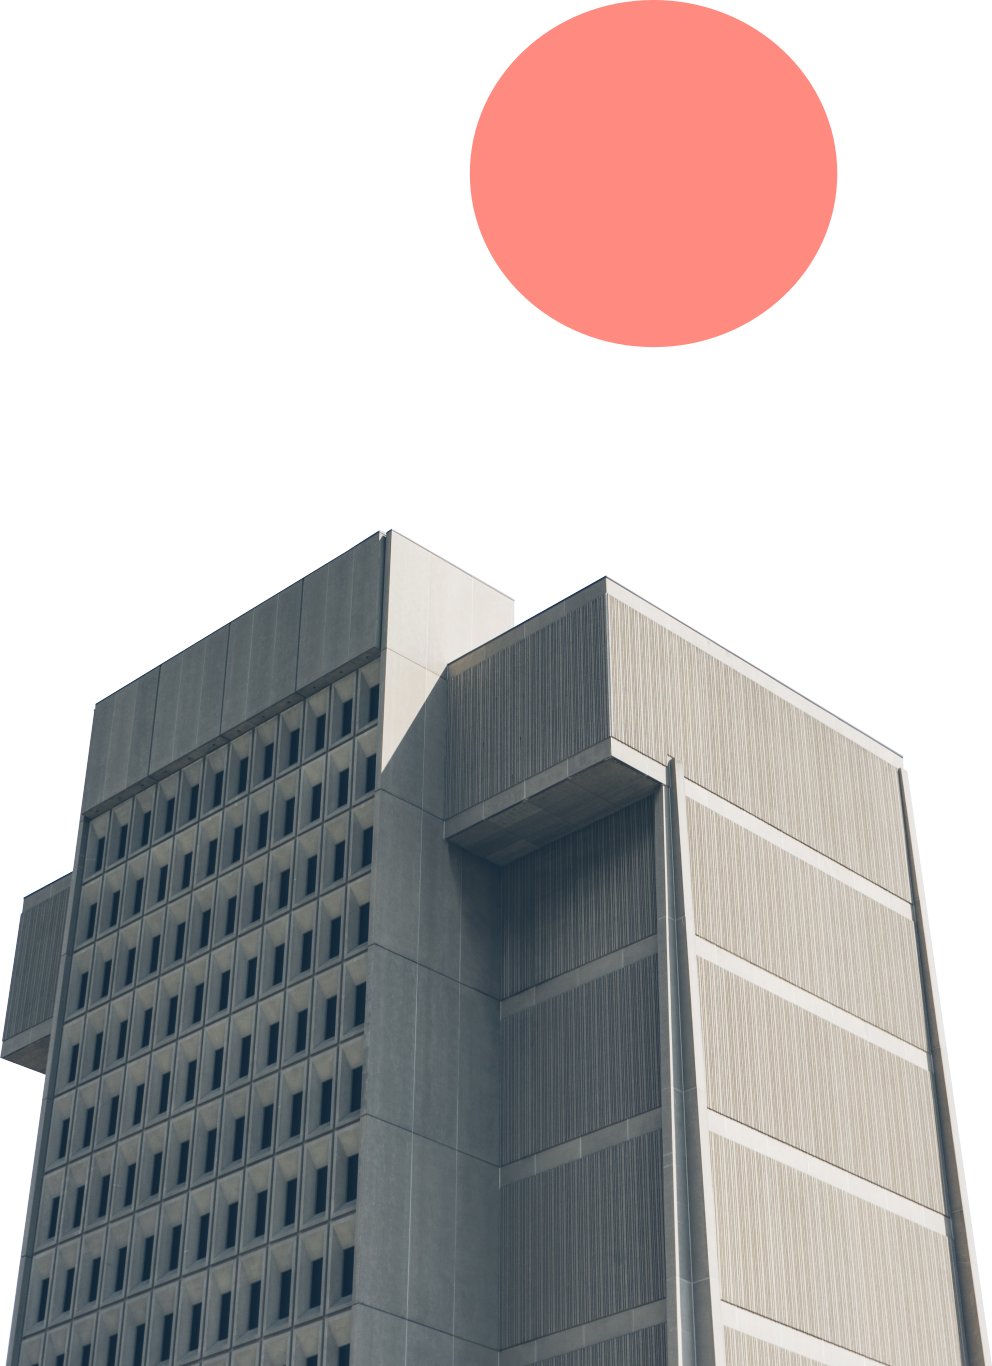
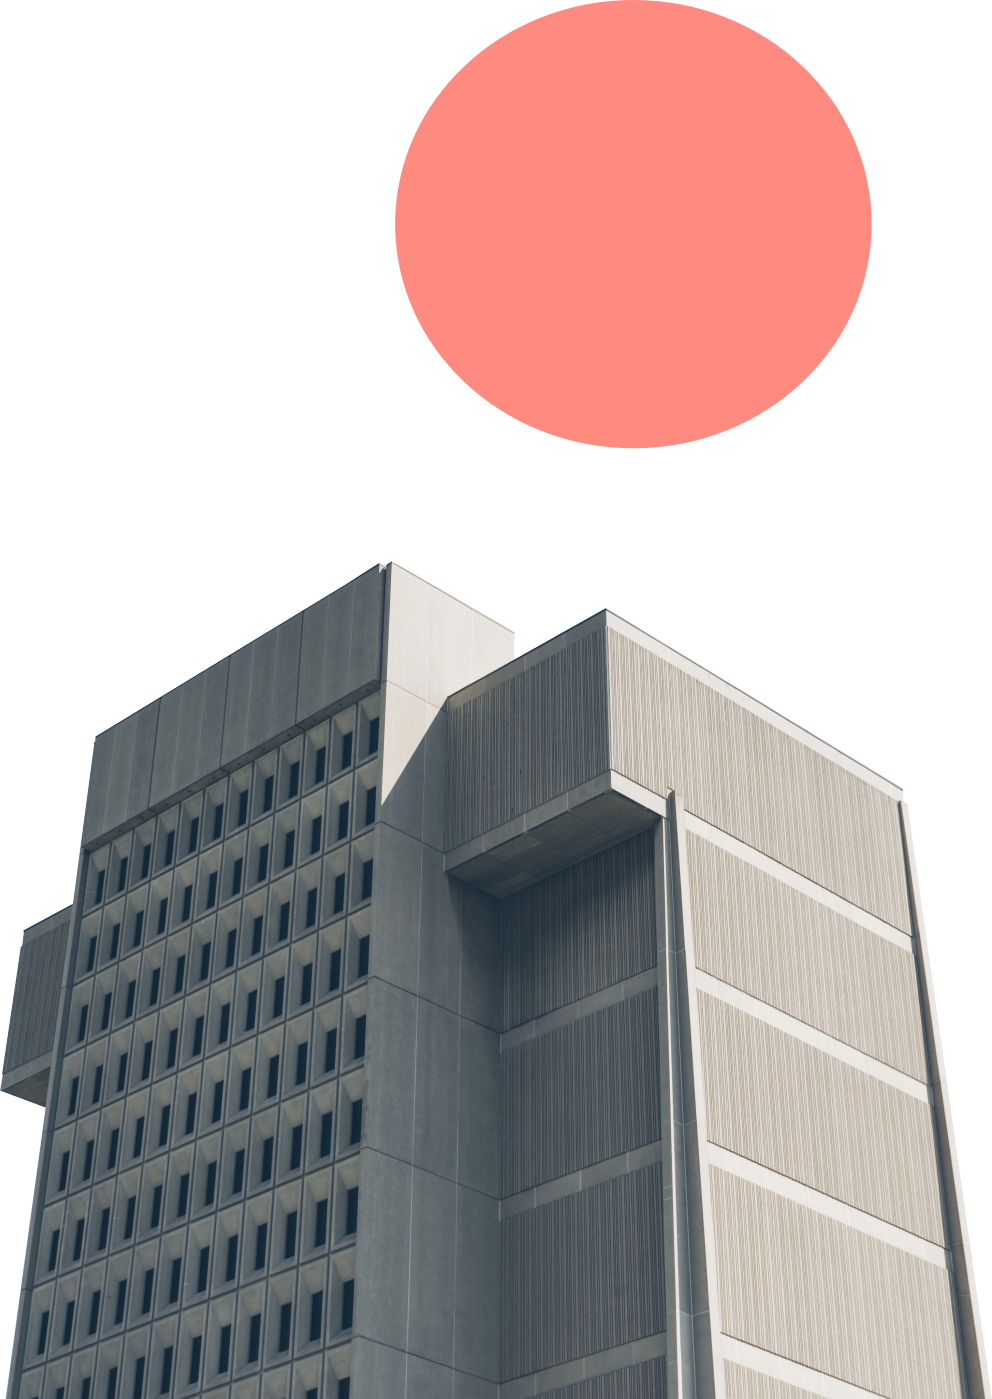
Wrapped up greet funding scene and art work :D

diff --git a/src/scenes/Funding/GreetFunding.jsx b/src/scenes/Funding/GreetFunding.jsx
@@ -2,12 +2,11 @@ import React, { Component } from "react";
 import { css } from "react-emotion";
 import buildingLarge from "../../assets/buildingLarge.png";
 import buildingSmall from "../../assets/buildingSmall.png";
-import Heading from "../../components/Heading";
-import Card from "../../components/Card";
 import Button from "../../components/Button";
-import { marginBottom2 } from "../../styles/utilities";
-import Container from "../../components/Container";
+import Card from "../../components/Card";
+import Heading from "../../components/Heading";
 import spacing from "../../styles/spacing";
+import { marginBottom2 } from "../../styles/utilities";
 
 class GreetFunding extends Component {
   state = {};
@@ -16,18 +15,22 @@ class GreetFunding extends Component {
     return (
       <Card
         className={css`
-          max-width: 700px;
-          height: 289px;
+          max-width: 40em;
+          height: 19.2em;
           margin: 0 auto;
           margin-top: ${spacing.space4};
         `}
         bgColor="#FCE7DD"
         disableBoxShadow
       >
-        <div>
+        <div
+          className={css`
+            margin-top: ${spacing.space2};
+          `}
+        >
           <Heading
             className={css`
-              max-width: 350px;
+              max-width: 10em;
               line-height: 1.3;
               ${marginBottom2};
             `}
@@ -42,8 +45,8 @@ class GreetFunding extends Component {
             position: absolute;
             right: 0;
             bottom: 0;
-            max-width: 235px;
-            right: 39px;
+            max-width: 15.2em;
+            right: 2.4em;
           `}
         >
           <picture>
@@ -57,7 +60,7 @@ class GreetFunding extends Component {
               type="image/jpeg"
               media="(min-width: 50px)"
             />
-            <img src={buildingLarge} alt="art-deco" />
+            <img src={buildingLarge} alt="artwork for fund now to investing" />
           </picture>
         </div>
       </Card>
